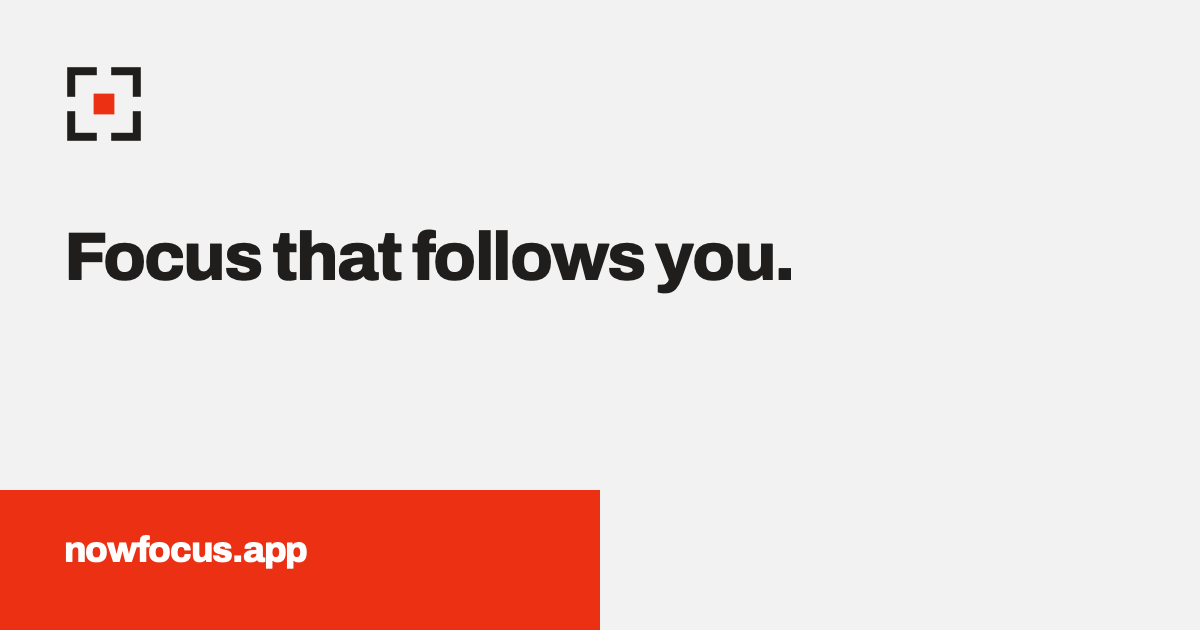
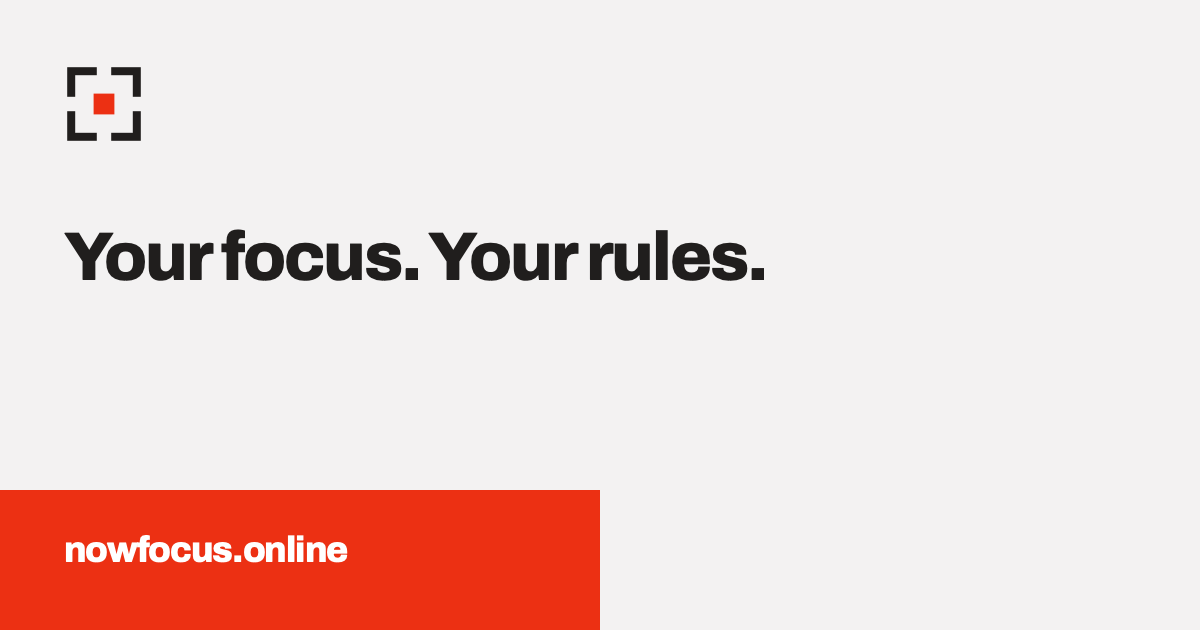
feat(brand): update web and store collateral domain to nowfocus.online

Changed region(s): [[0.0308, 0.3619, 0.6783, 0.4825], [0.185, 0.8444, 0.3083, 0.9048]]

diff --git a/brand/generate.swift b/brand/generate.swift
@@ -658,9 +658,8 @@ func generateExports() {
     writePNG(touchCtx, to: exportsDir + "/web/apple-touch-icon-180.png")
     _ = fav48
 
-    // Store/web collateral — domain left as `nowfocus.app` per the design
-    // sheet; flagged in the plan as needing confirmation against the repo's
-    // actual `getnowfocus` bundle IDs before this is treated as final.
+    // Store/web collateral. The site lives at nowfocus.online (apps/web); the
+    // `app.getnowfocus.*` bundle IDs are reverse-DNS identifiers and stay as they are.
     let pfW = 1024, pfH = 500
     let pfCtx = makeContext(width: pfW, height: pfH, opaque: true)
     pfCtx.setFillColor(hexColor(accentHex))
@@ -675,10 +674,10 @@ func generateExports() {
     ogCtx.setFillColor(hexColor(groundHex))
     ogCtx.fill(CGRect(x: 0, y: 0, width: ogW, height: ogH))
     drawMark(ogCtx, rect: CGRect(x: 64, y: 64, width: 80, height: 80), strokeThick: false, color: hexColor(inkHex), accent: hexColor(accentHex))
-    drawText(ogCtx, "Focus that follows you.", at: CGPoint(x: 64, y: 220), size: 68, color: hexColor(inkHex))
+    drawText(ogCtx, "Your focus. Your rules.", at: CGPoint(x: 64, y: 220), size: 68, color: hexColor(inkHex))
     ogCtx.setFillColor(hexColor(accentHex))
     ogCtx.fill(CGRect(x: 0, y: ogH - 140, width: ogW / 2, height: 140))
-    drawText(ogCtx, "nowfocus.app", at: CGPoint(x: 64, y: ogH - 100), size: 36, color: hexColor(whiteHex))
+    drawText(ogCtx, "nowfocus.online", at: CGPoint(x: 64, y: ogH - 100), size: 36, color: hexColor(whiteHex))
     writePNG(ogCtx, to: exportsDir + "/store/og-image-1200x630.png")
 
     print("iOS/store/web exports + canonical SVGs written")
